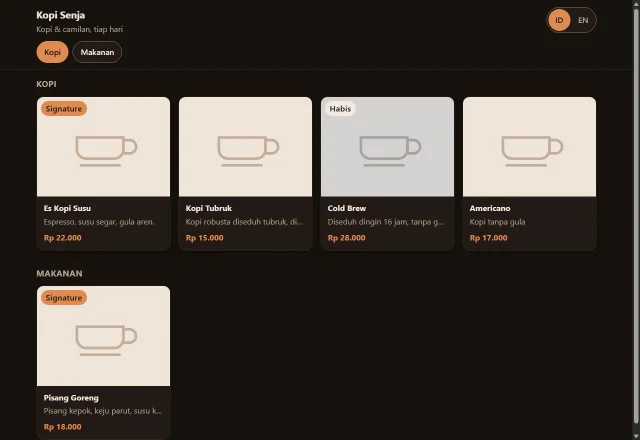
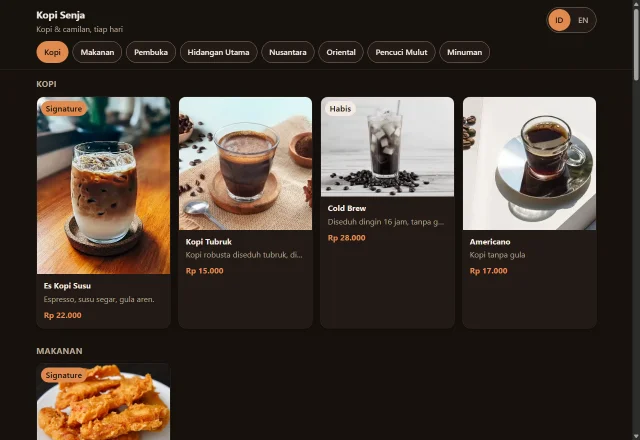
Galeri: 7 kartu (tambah tema 5 & 6), pratinjau asli
Tambah kartu Rimba Hijau (showcase/5) + Dolce Dessert (showcase/6) dengan tangkapan
layar asli. Perbarui pratinjau menu cafe (preview-5) agar cerminkan menu 35 item berfoto.
Header: 'Lima' → 'Tujuh gaya'.

diff --git a/index.html b/index.html
@@ -178,7 +178,7 @@
     <p class="head__eyebrow">Contoh Desain</p>
     <h1 class="head__title">Pilih tampilan untuk menu Anda</h1>
     <p class="head__text">
-      Lima gaya berbeda, semuanya berfungsi penuh — klik untuk mencobanya seperti pelanggan Anda nanti.
+      Tujuh gaya berbeda, semuanya berfungsi penuh — klik untuk mencobanya seperti pelanggan Anda nanti.
       Setiap halaman bisa diklik ke dalam.
     </p>
   </header>
@@ -241,6 +241,30 @@
         <div class="card__body">
           <h2 class="card__name">Dolce — Dessert</h2>
           <p class="card__desc">Manis dan lembut: nuansa blush-rose, foto membulat, cocok untuk kafe & toko kue.</p>
+          <span class="card__cta">Coba desain ini →</span>
+        </div>
+      </a>
+
+      <a class="card card--live" href="showcase/5/">
+        <div class="card__shot">
+          <img src="showcase/preview/preview-6.webp" alt="Pratinjau desain Rimba Hijau" width="640" height="440" loading="lazy">
+          <span class="tag tag--live">Bisa dicoba</span>
+        </div>
+        <div class="card__body">
+          <h2 class="card__name">Rimba Hijau — Poster</h2>
+          <p class="card__desc">Poster hijau elegan: latar hijau pekat, piring bundar mengambang dihubungkan garis emas.</p>
+          <span class="card__cta">Coba desain ini →</span>
+        </div>
+      </a>
+
+      <a class="card card--live" href="showcase/6/">
+        <div class="card__shot">
+          <img src="showcase/preview/preview-7.webp" alt="Pratinjau desain Dolce Dessert" width="640" height="440" loading="lazy">
+          <span class="tag tag--live">Bisa dicoba</span>
+        </div>
+        <div class="card__body">
+          <h2 class="card__name">Dolce Dessert — Poster</h2>
+          <p class="card__desc">Poster dwiwarna krem & olive: piring hitam berjenjang, daftar rapi untuk kafe & toko kue.</p>
           <span class="card__cta">Coba desain ini →</span>
         </div>
       </a>